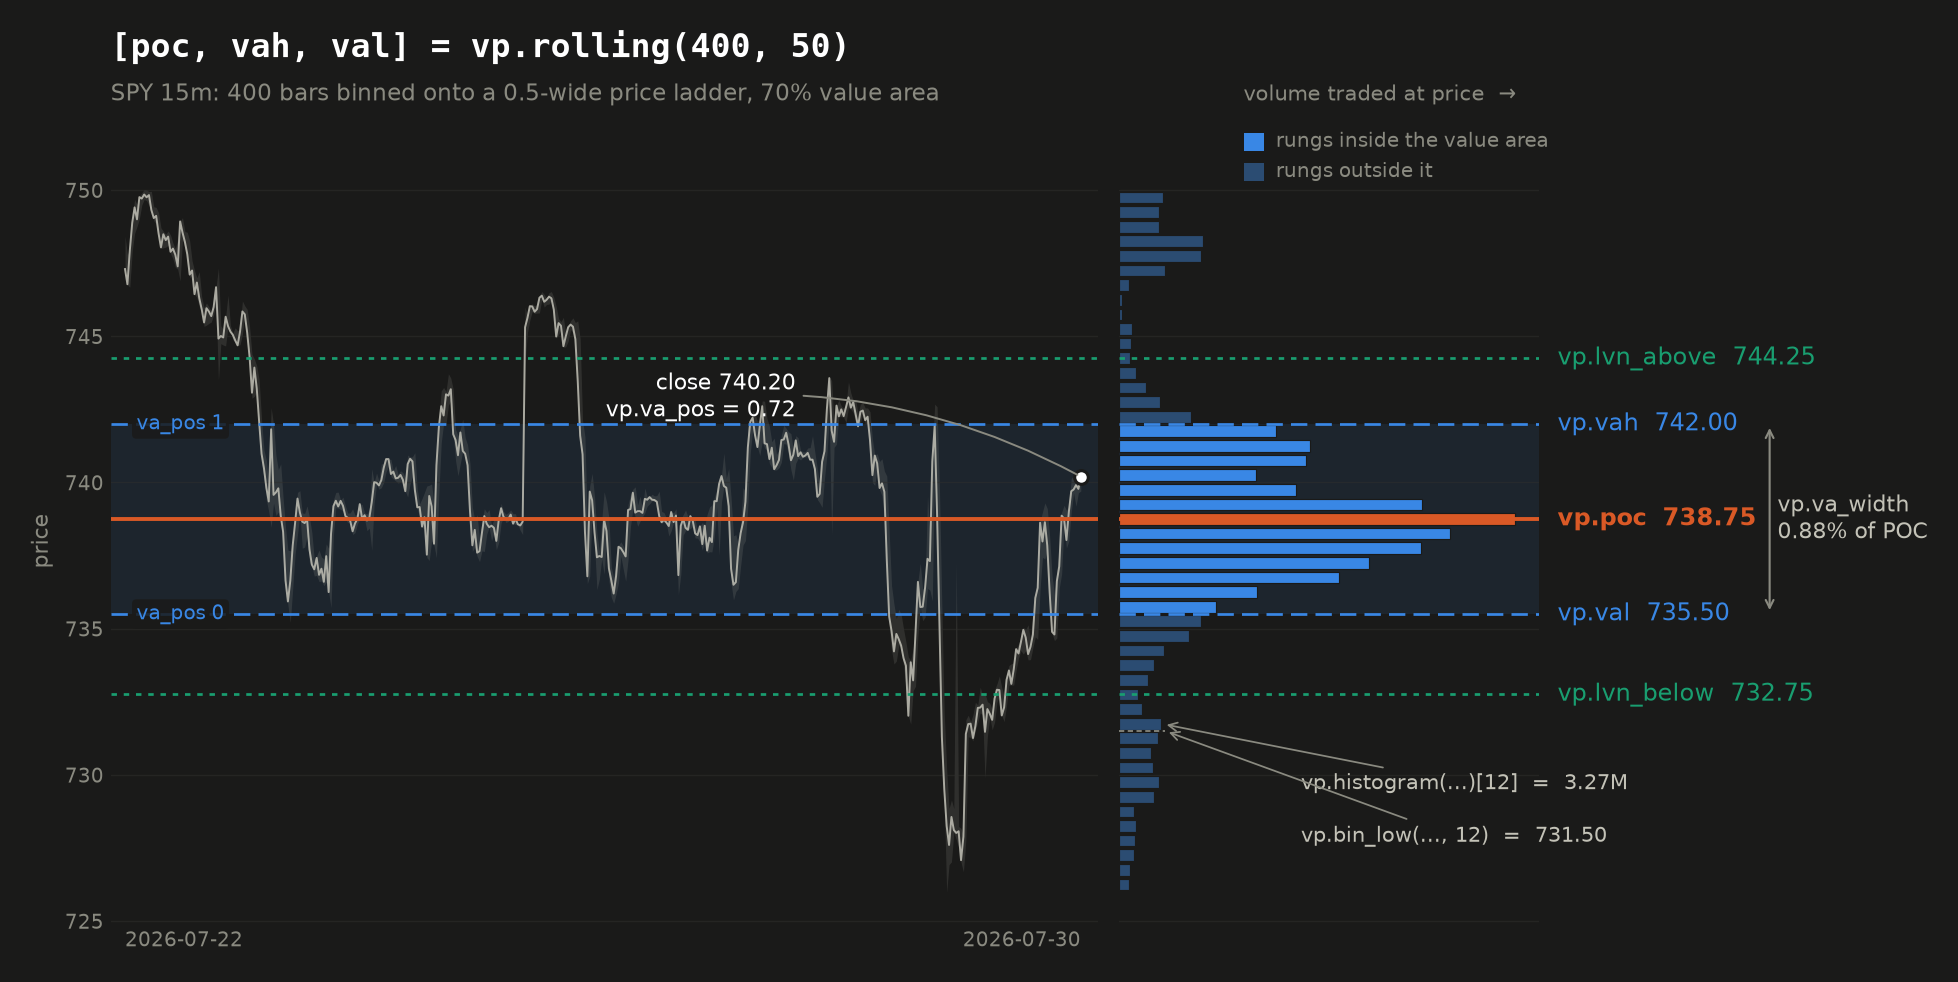
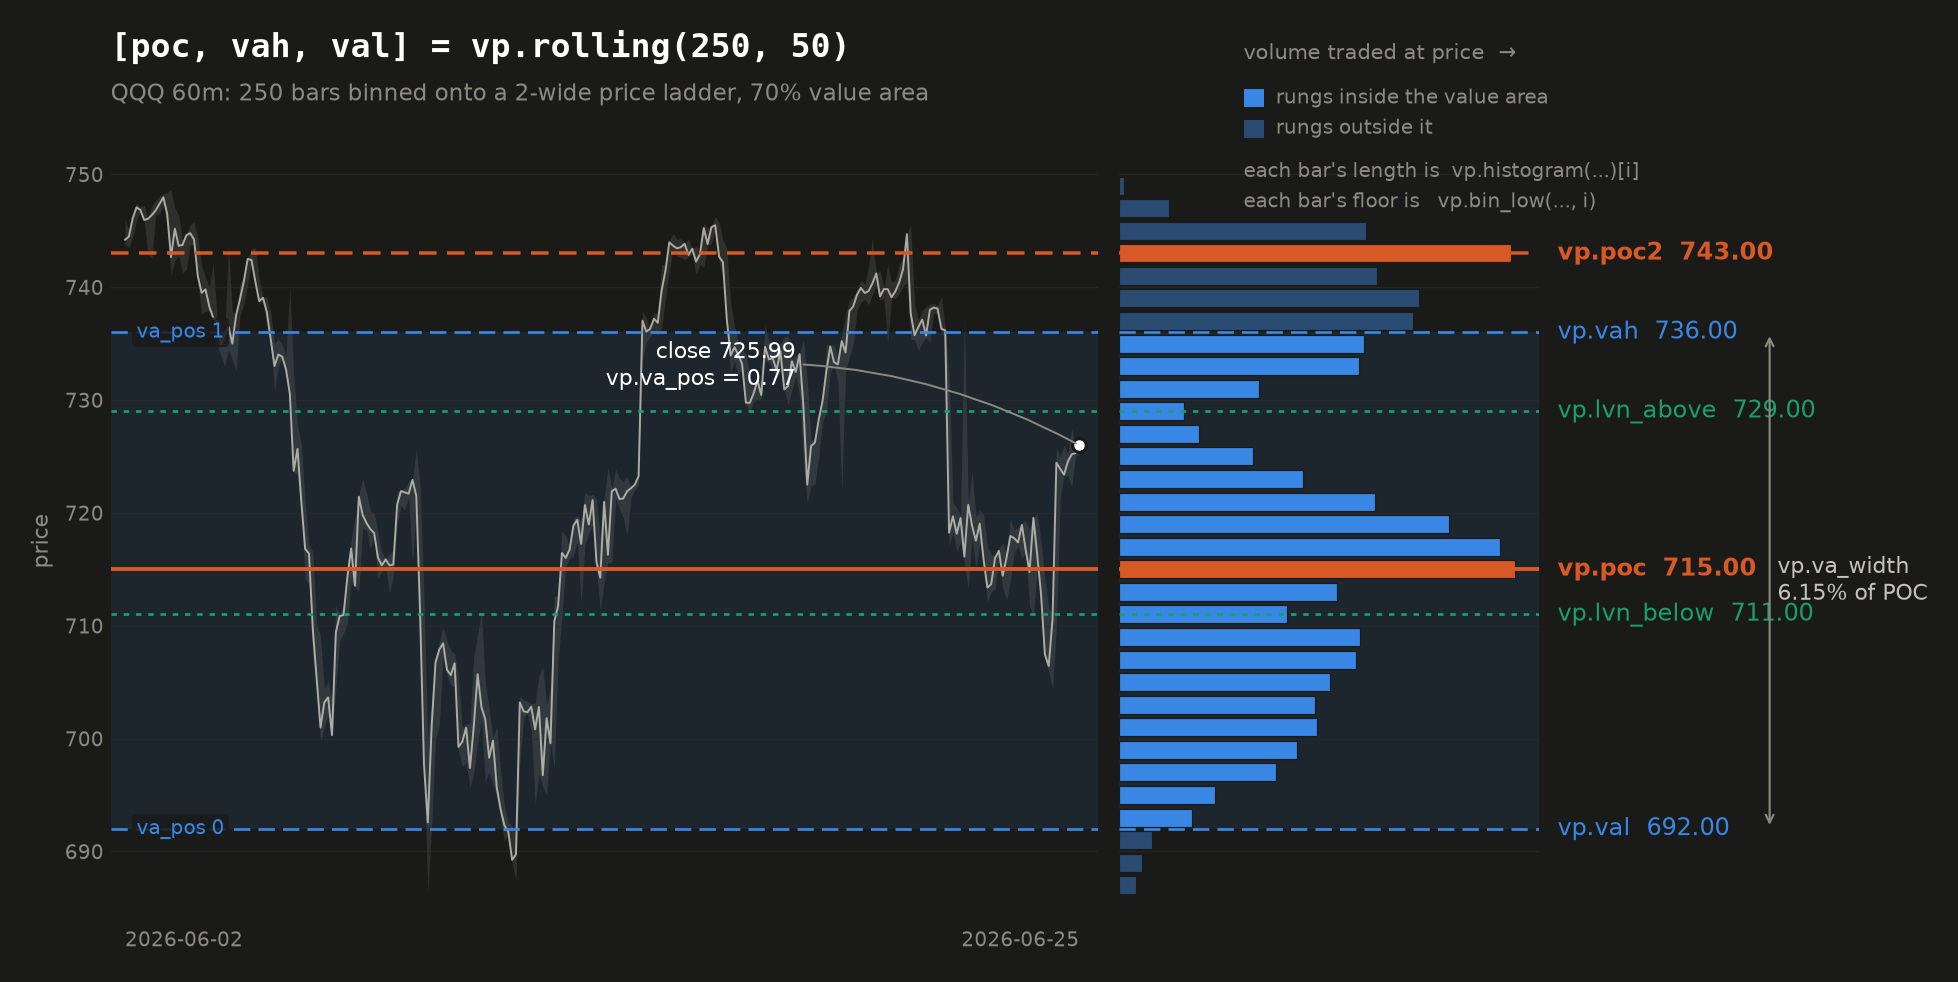
The profile had a second mode and no way to name it
vp.poc is a single argmax, so a window that traded around two prices reported
the larger and said nothing about the other. vp.poc2 names it, and the wiki
gets a section for it plus a row in the readings table.

The figure is re-shot on a bimodal window for the same reason: the old one was
a single hump, so poc2 had nothing to point at. QQQ 60m, poc 715 and poc2 743,
drawn as a dashed line in the same colour because it is the same kind of level.

The section leads with what poc2 is NOT. The rung beside the point of control
is heavy for exactly the reason the point of control is, so any "second highest
rung" reading is always available, always plausible and never means anything. A
second peak is a second mode only where the profile comes back down between the
two, and sep is that test: the valley gives back at least 1-sep of the smaller
hump, and that hump is worth at least sep of the larger. The second half is
what keeps the answer out of the tail, where a one-rung wiggle clears any
valley test because everything around it is near zero.

Numbers on the figure are the ones vp.* returns, checked rather than drawn: the
script ports the ladder out of the interpreter and the same window was run
through the backtest binary and then through the built runner image, agreeing
to the digit on every level and to 7e-9 of volume across all fifty rungs.

Note the pin named here, //@runtime=2026.08.23-poc2, is not registered in
[…]

diff --git a/scripts/volume_profile_figure.py b/scripts/volume_profile_figure.py
@@ -99,6 +99,47 @@ def levels(hist, total, w, va: float = DEFAULT_VA):
     }
 
 
+def poc2(hist, w, sep: float = 0.50):
+    """The second point of control: the heaviest hump the profile comes back DOWN between.
+
+    Not the next-heaviest rung. `sep` bounds both the valley (at most `sep` of the smaller hump)
+    and the hump itself (at least `sep` of the larger), over the DENSE rung range.
+    """
+    if w <= 0.0 or len(hist) < 2:
+        return None
+    keys = list(hist.keys())
+    ks = list(range(keys[0], keys[-1] + 1))
+    if len(ks) < 3:
+        return None
+    v = [hist.get(k, 0.0) for k in ks]
+    poc_i = max(range(len(v)), key=lambda i: v[i])
+
+    peaks, i = [], 0
+    while i < len(v):
+        j = i
+        while j + 1 < len(v) and v[j + 1] == v[i]:
+            j += 1
+        if (i == 0 or v[i] > v[i - 1]) and (j + 1 == len(v) or v[j] > v[j + 1]) and v[i] > 0.0:
+            peaks.append((i, j))
+        i = j + 1
+
+    best = None
+    for a_, b_ in peaks:
+        if a_ <= poc_i <= b_:
+            continue
+        if v[a_] < sep * v[poc_i]:
+            continue
+        lo, hi = (b_, poc_i) if b_ < poc_i else (poc_i, a_)
+        if min(v[lo:hi + 1]) > sep * min(v[a_], v[poc_i]):
+            continue
+        if best is None or v[a_] > best[0]:
+            best = (v[a_], a_, b_)
+    if best is None:
+        return None
+    _, a_, b_ = best
+    return ((ks[a_] + ks[b_]) / 2.0 + 0.5) * w, a_, b_
+
+
 def lvn(hist, w, price: float, downward: bool):
     """Nearest low-volume node: a dip the profile comes back UP from, over the DENSE rung range."""
     if w <= 0.0 or len(hist) < 2:
@@ -164,6 +205,7 @@ def main() -> None:
     lv = levels(hist, total, w, args.va)
     poc, vah, val = lv["poc"], lv["vah"], lv["val"]
     px = float(close[-1])
+    second = poc2(hist, w)
     lvn_lo = lvn(hist, w, px, True)
     lvn_hi = lvn(hist, w, px, False)
     va_pos = (px - val) / (vah - val)
@@ -172,6 +214,7 @@ def main() -> None:
     print(f"window {L} bars  bins {args.bins}  va {args.va}  rung width {w}")
     print(f"poc {poc:.2f}  vah {vah:.2f}  val {val:.2f}")
     print(f"lvn_below {lvn_lo}  lvn_above {lvn_hi}")
+    print(f"poc2 {second[0] if second else None}")
     print(f"va_pos {va_pos:.4f}  va_width {va_width:.4f}  close {px:.2f}")
 
     # ── figure ────────────────────────────────────────────────────────────────────
@@ -207,6 +250,8 @@ def main() -> None:
         ax.axhline(vah, color=BLUE, linewidth=1.4, linestyle=(0, (6, 3)), zorder=3)
         ax.axhline(val, color=BLUE, linewidth=1.4, linestyle=(0, (6, 3)), zorder=3)
         ax.axhline(poc, color=ORANGE, linewidth=2.0, zorder=4)
+        if second is not None:
+            ax.axhline(second[0], color=ORANGE, linewidth=1.8, linestyle=(0, (5, 3)), zorder=4)
         for y in (lvn_lo, lvn_hi):
             if y is not None:
                 ax.axhline(y, color=AQUA, linewidth=1.4, linestyle=(0, (2, 2.5)), zorder=3)
@@ -222,6 +267,9 @@ def main() -> None:
     inside = np.array([lv["lo_ix"] <= i <= lv["hi_ix"] for i in range(len(ks))])
     colors = [BLUE if ins else BLUE_MUTE for ins in inside]
     colors[lv["poc_ix"]] = ORANGE
+    if second is not None:
+        for i in range(second[1], second[2] + 1):
+            colors[i] = ORANGE
     axh.barh(ys + w / 2.0, vols, height=w * 0.80, color=colors,
              edgecolor=SURFACE, linewidth=0.6, zorder=2)
 
@@ -254,6 +302,8 @@ def main() -> None:
     level_label(vah, f"vp.vah  {vah:,.2f}", BLUE)
     level_label(poc, f"vp.poc  {poc:,.2f}", ORANGE, "bold")
     level_label(val, f"vp.val  {val:,.2f}", BLUE)
+    if second is not None:
+        level_label(second[0], f"vp.poc2  {second[0]:,.2f}", ORANGE, "bold")
     if lvn_hi is not None:
         level_label(lvn_hi, f"vp.lvn_above  {lvn_hi:,.2f}", AQUA)
     if lvn_lo is not None:
@@ -281,24 +331,6 @@ def main() -> None:
 
     # one rung, named: vp.histogram()[i] is its length, vp.bin_low(i) is its price floor.
     # Annotated low in the profile, where the rungs are short and the panel has room.
-    i_ann = max(0, lv["lo_ix"] - 8)
-    y_ann, v_ann = ys[i_ann], vols[i_ann]
-    # Both callouts sit BELOW the rung and their leaders run parallel — the shorter reach to
-    # the bar tip above the longer one to the rung floor, so they never cross.
-    tx = vols.max() * 0.46
-    axh.annotate(f"vp.histogram(...)[{i_ann}]  =  {v_ann / 1e6:,.2f}M",
-                 xy=(v_ann, y_ann + w / 2), xytext=(tx, y_ann - w * 3.6),
-                 fontsize=11, color=INK_2, ha="left", va="center",
-                 arrowprops=dict(arrowstyle="->", color=INK_3, linewidth=0.9,
-                                 shrinkA=4, shrinkB=3), zorder=8)
-    axh.plot([0, v_ann * 1.10], [y_ann, y_ann], color=INK_3, linewidth=0.9,
-             linestyle=(0, (3, 2)), zorder=7)
-    axh.annotate(f"vp.bin_low(..., {i_ann})  =  {y_ann:,.2f}",
-                 xy=(v_ann * 1.10, y_ann), xytext=(tx, y_ann - w * 7.2),
-                 fontsize=11, color=INK_2, ha="left", va="center",
-                 arrowprops=dict(arrowstyle="->", color=INK_3, linewidth=0.9,
-                                 shrinkA=4, shrinkB=2), zorder=8)
-
     # titles
     fig.text(0.045, 0.955, f"[poc, vah, val] = vp.rolling({L}, {args.bins})",
              fontsize=17, color=INK, weight="bold", family="DejaVu Sans Mono"
@@ -308,13 +340,19 @@ def main() -> None:
              f"{args.symbol} {args.timeframe}: {L} bars binned onto a {w:g}-wide price ladder, "
              f"{int(args.va * 100)}% value area",
              fontsize=12, color=INK_3)
-    fig.text(0.640, 0.912, "volume traded at price  →", fontsize=11, color=INK_3)
+    # The key for the right panel. `histogram` and `bin_low` are named here rather than with a
+    # leader into the panel: they are properties of EVERY rung, so an arrow at one arbitrary bar
+    # says less than a line saying which dimension of the bar each call returns.
+    fig.text(0.640, 0.953, "volume traded at price  →", fontsize=11, color=INK_3)
     for i, (c, lab) in enumerate(((BLUE, "rungs inside the value area"),
                                   (BLUE_MUTE, "rungs outside it"))):
-        yy = 0.862 - i * 0.030
+        yy = 0.905 - i * 0.030
         fig.patches.append(Rectangle((0.640, yy), 0.011, 0.018, transform=fig.transFigure,
                                      facecolor=c, edgecolor="none", zorder=9))
         fig.text(0.657, yy + 0.004, lab, fontsize=10.5, color=INK_3)
+    for i, lab in enumerate(("each bar's length is  vp.histogram(...)[i]",
+                             "each bar's floor is   vp.bin_low(..., i)")):
+        fig.text(0.640, 0.836 - i * 0.030, lab, fontsize=10.5, color=INK_3)
     axp.set_ylabel("price", fontsize=11.5, color=INK_3, labelpad=6)
 
     fig.savefig(args.out, facecolor=SURFACE, bbox_inches="tight", pad_inches=0.22)

diff --git a/README.md b/README.md
@@ -1022,11 +1022,13 @@ counts once, and the highest high and lowest low are decided by **two** bars. Th
 **volume**-weighted, so a week of heavy accumulation outweighs a month of quiet drift, and a spike
 low that nobody traded at moves it not at all.
 
-![A volume profile of 400 bars of SPY 15m: the price panel on the left with the point of control, the value area and the low-volume nodes drawn across it, and the volume-at-price histogram on the right](images/volume-profile.png)
+![A bimodal volume profile of 250 bars of QQQ 60m: the price panel on the left with both points of control, the value area and the low-volume nodes drawn across it, and the volume-at-price histogram on the right showing two humps](images/volume-profile.png)
 
 Every reading the namespace offers is on that figure, and every number on it is the one `vp.*`
 returns for that window. The histogram on the right is the profile itself, one bar per rung of the
-price ladder; the levels drawn across both panels are what the calls below hand back.
+price ladder; the levels drawn across both panels are what the calls below hand back. This
+particular window is **bimodal**, which is why it is the one drawn: the market traded around two
+prices rather than one, so there is a `vp.poc2` to show as well as a `vp.poc`.
 
 
 ### Reading it in Pine
@@ -1060,6 +1062,7 @@ All three return `[poc, vah, val]`. Then the readings off a rolling profile:
 | call | returns |
 |---|---|
 | `vp.poc(length, bins)` | the point of control on its own |
+| `vp.poc2(length, bins, sep)` | the second point of control, or `na` when the profile has only one mode |
 | `vp.vah(length, bins, va)` / `vp.val(length, bins, va)` | the value area edges on their own |
 | `vp.va_pos(length, bins, va)` | where the close sits inside the value area: 0 at the low edge, 1 at the high |
 | `vp.va_width(length, bins, va)` | the value area's width as a percent of the POC |
@@ -1108,6 +1111,38 @@ always thins out toward its edges, so "thinnest" would nearly always answer with
 true, and useless. Where there is no gap on that side of price, the call returns `na`, which is an
 ordinary outcome to guard rather than an error.
 
+### The second point of control
+
+A market does not always agree on one price. It can spend a window trading around two, moving
+quickly between them, and a profile of that shape has two humps rather than one. `vp.poc` is a
+single argmax, so it names the larger and says nothing about the other. `vp.poc2` names the other.
+
+```pine
+poc = vp.poc(500, 50)
+second = vp.poc2(500, 50)
+if not na(second)
+    // the market has two acceptance zones, and the void between them is the node
+    mid = vp.lvn_below(500, 50)
+```
+
+**It is not "the next-heaviest rung", and that distinction is the whole feature.** The rung beside
+the point of control is heavy for exactly the reason the point of control is, so any
+second-highest reading answers with the POC's own neighbour: a number that is always available,
+always plausible, and never means anything. A second peak is a second *mode* only if the profile
+comes back down between the two.
+
+`sep` is that test, and it is a ratio rather than a volume so it does not move with the instrument
+or the window length. It says two things at once, which at the default both read as "half":
+
+- the valley between the peaks must give back at least `1 - sep` of the smaller hump, and
+- that hump must be worth at least `sep` of the larger one.
+
+The second half is what keeps the answer out of the profile's own tail, where a one-rung wiggle
+clears any valley test trivially because everything around it is near zero. Lower `sep` to demand
+a deeper, more convincing void; raise it to accept a softer separation. `na` is the ordinary
+answer on a single-mode profile, not an error, and a strategy guards it exactly as it guards
+`vp.lvn_below`.
+
 ### Profiling the lower timeframe
 
 Binning a chart bar spreads its volume across the whole range that bar covered, which is a guess:
@@ -1139,7 +1174,8 @@ indistinguishable from warmup.
 - **It needs no extra data.** Unlike [`gex.*`](#gamma-exposure-gex), which needs a live options
   chain, a volume profile is computed from bars the job already has. So it behaves identically in a
   backtest, a sweep and a live bot, on every broker.
-- **Pin the runtime.** `vp.*` needs `//@runtime=2026.08.14-vp` or later.
+- **Pin the runtime.** `vp.*` needs `//@runtime=2026.08.14-vp` or later, and `vp.poc2` needs
+  `//@runtime=2026.08.23-poc2` or later.
 
 ### As a machine-learning feature
 
